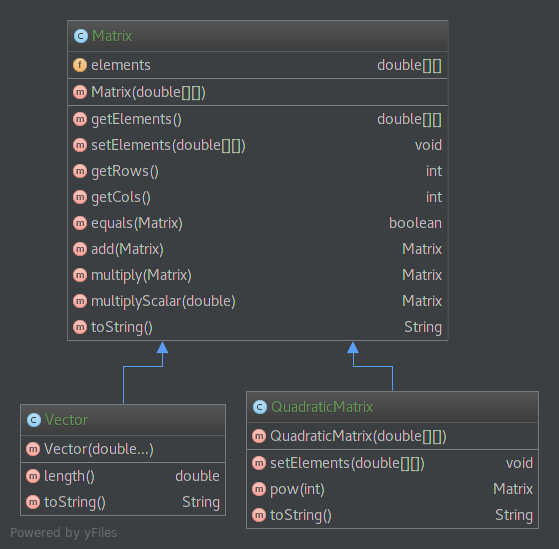
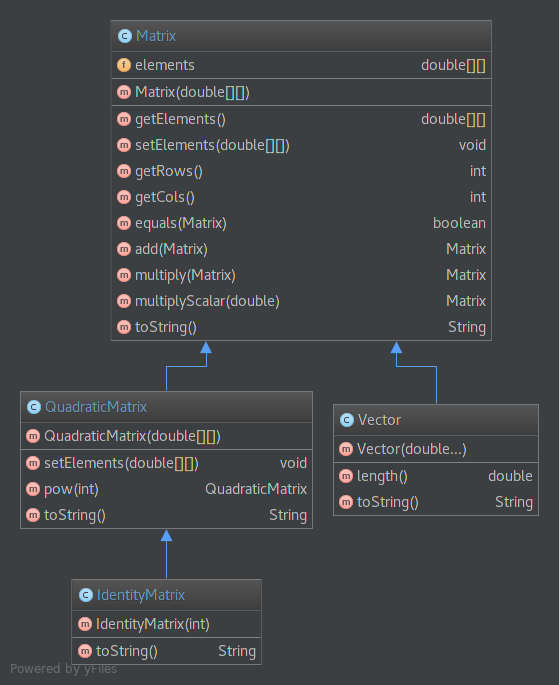
removed Package-private constructors

diff --git a/exercise-06/src/main/java/edu/stach/university/math/IdentityMatrix.java b/exercise-06/src/main/java/edu/stach/university/math/IdentityMatrix.java
@@ -21,6 +21,7 @@ public class IdentityMatrix extends QuadraticMatrix {
      * @param size The size of the IndentityMatrix
      */
     public IdentityMatrix(int size) {
+        super(new double[size][size]);
         double[][] elements = new double[size][size];
 
         for (int i = 0; i < elements.length; i++) {

diff --git a/exercise-06/src/main/java/edu/stach/university/math/QuadraticMatrix.java b/exercise-06/src/main/java/edu/stach/university/math/QuadraticMatrix.java
@@ -17,12 +17,6 @@ package edu.stach.university.math;
  */
 public class QuadraticMatrix extends Matrix {
     /**
-     * Package-private constructor
-     */
-    QuadraticMatrix() {
-    }
-
-    /**
      * Constructor sets the elements
      *
      * @param elements The elements for the matrix

diff --git a/exercise-06/src/main/java/edu/stach/university/math/Matrix.java b/exercise-06/src/main/java/edu/stach/university/math/Matrix.java
@@ -22,12 +22,6 @@ public class Matrix {
     private double[][] elements;
 
     /**
-     * Packag-private constructor
-     */
-    Matrix() {
-    }
-
-    /**
      * Constructor for a matrix
      *
      * @param elements A double array for rows and columns
